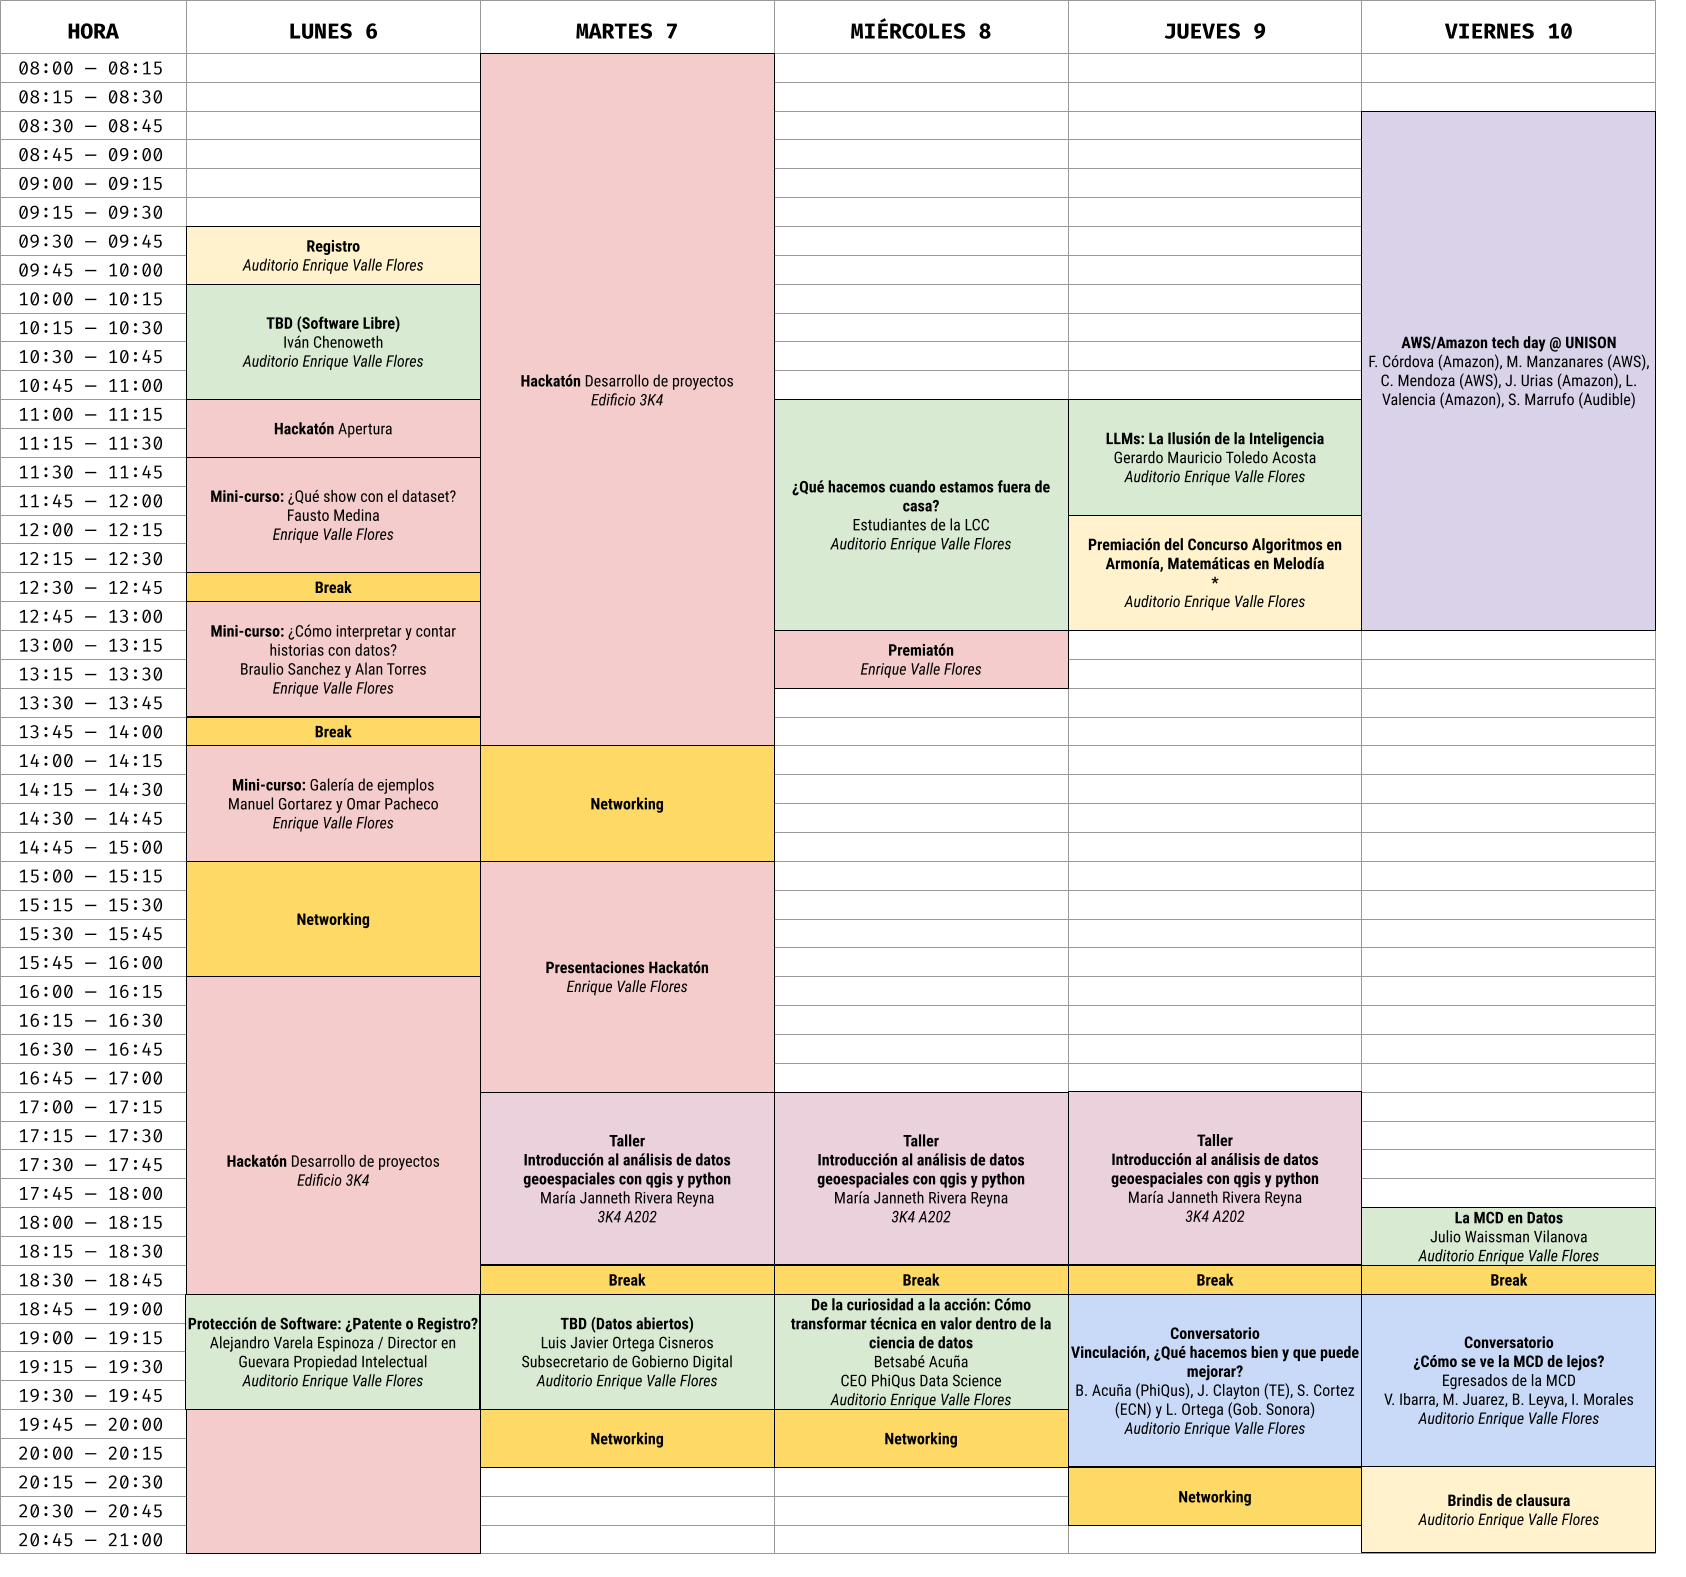
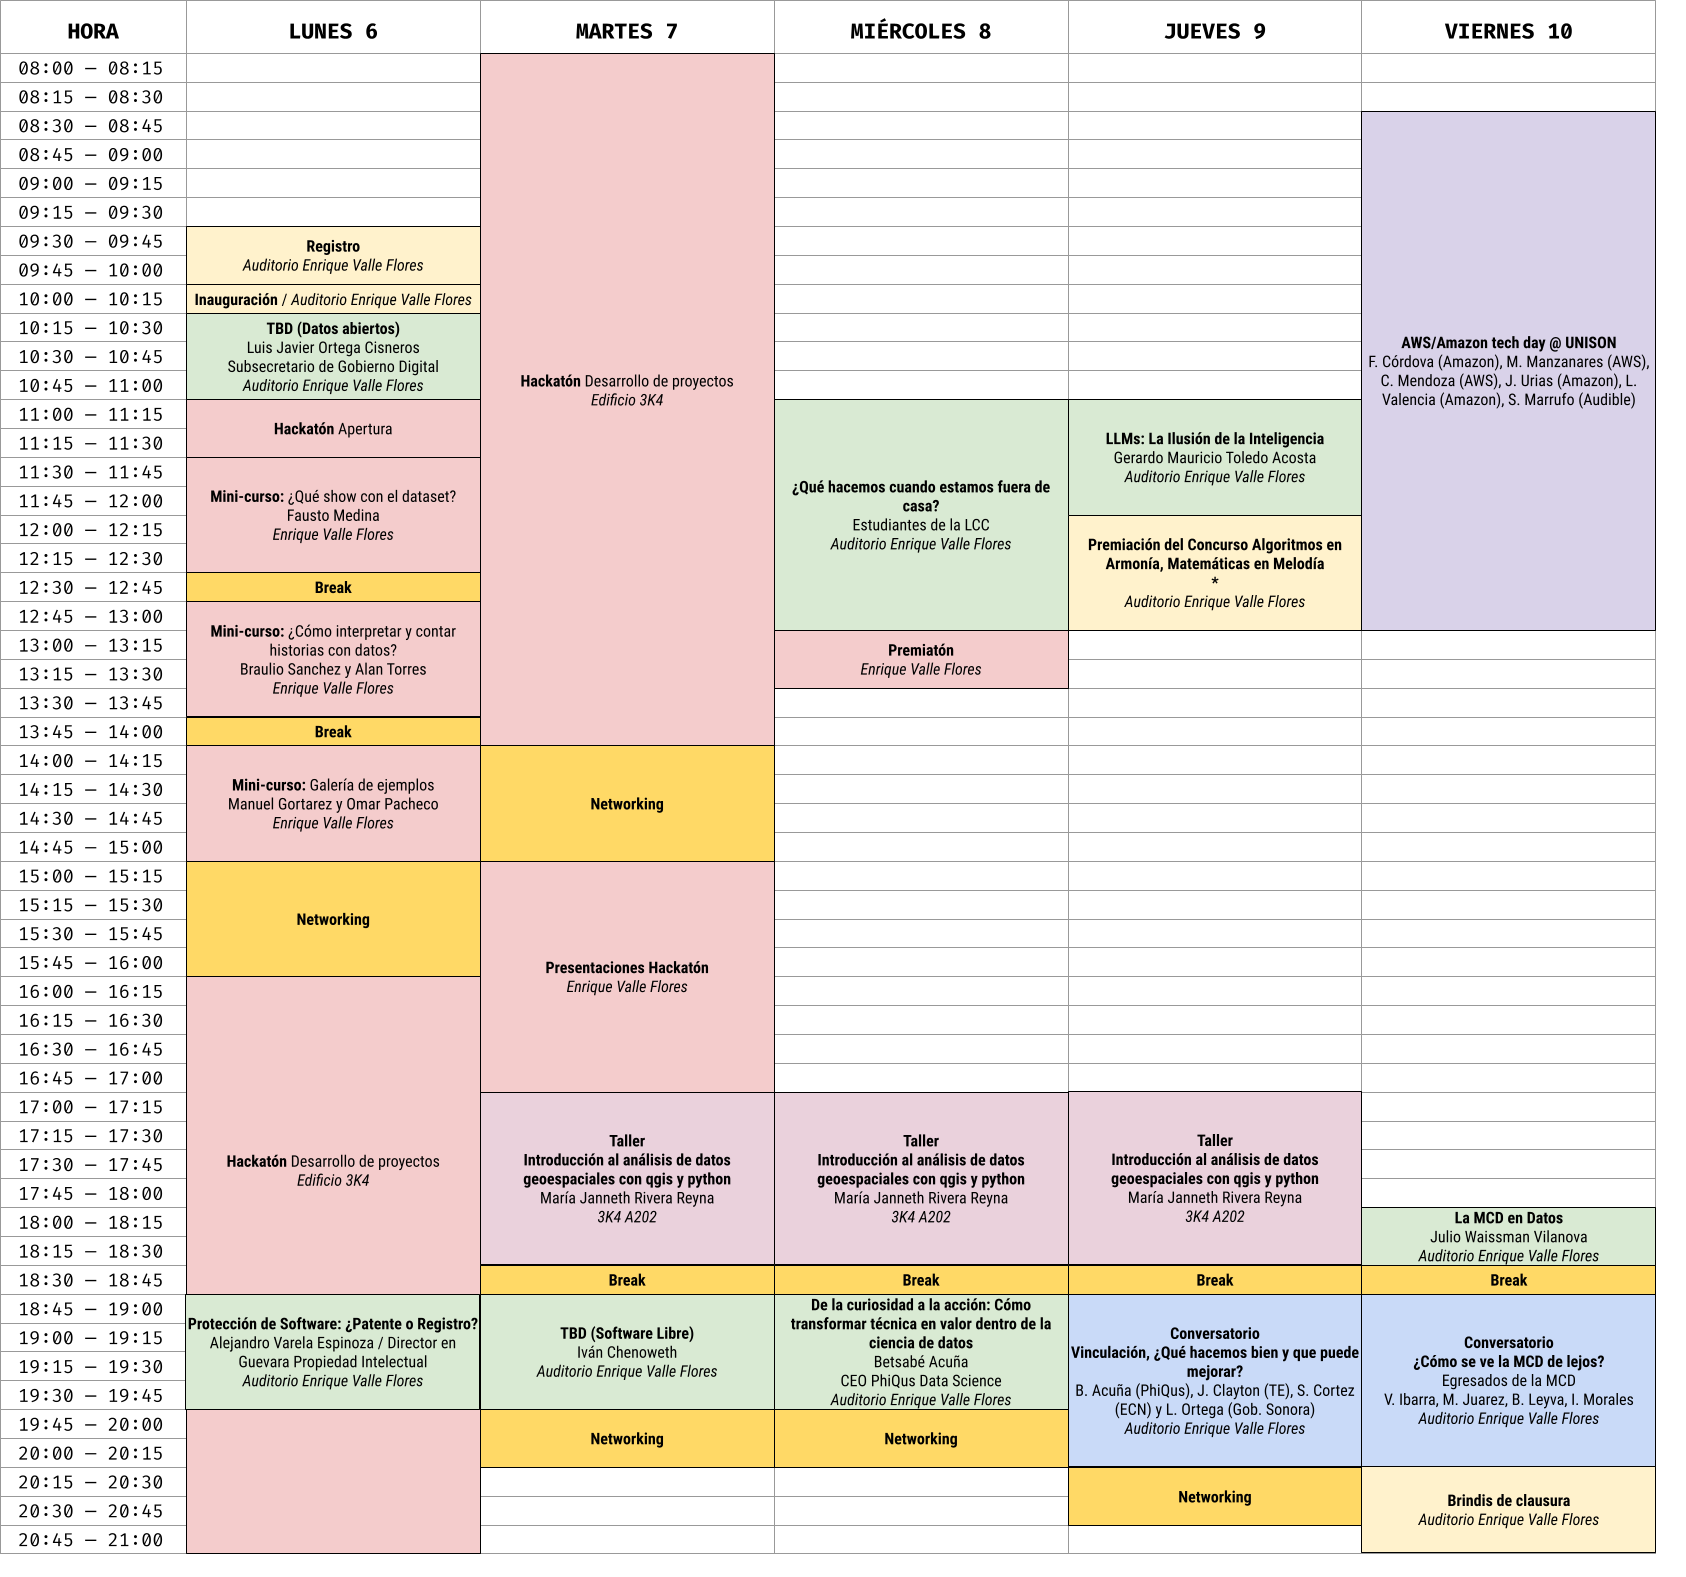
Actualizar horarios con inauguración

Changed region(s): [[0.0925, 0.1554, 0.2776, 0.2486], [0.3084, 0.8389, 0.4318, 0.9011]]

diff --git a/_includes/about.html b/_includes/about.html
@@ -11,6 +11,22 @@
       <div class="col-lg-12">
         <ul class="timeline">
           <!-- PLATICA -->
+          <li class="timeline-inverted">
+            <div class="timeline-image">
+              <img class="img-circle img-responsive" src="img/about/inagural.png" alt="">
+            </div>
+            <div class="timeline-panel">
+              <div class="timeline-heading">
+                <h5 class="subheading">Lunes 6 de octubre</h5>
+                <h5 class="subheading">10:00 - 10:15</h5>
+                <h4>Inauguración</h4>
+                <h4></h4>
+                <h4 class="subheading">Auditorio Enrique Valle Flores</h4>
+              </div>
+            </div>
+          </li>
+          
+          <!-- PLATICA -->
           <!-- o <li class="timeline-inverted"> -->
           <li>
             <div class="timeline-image">
